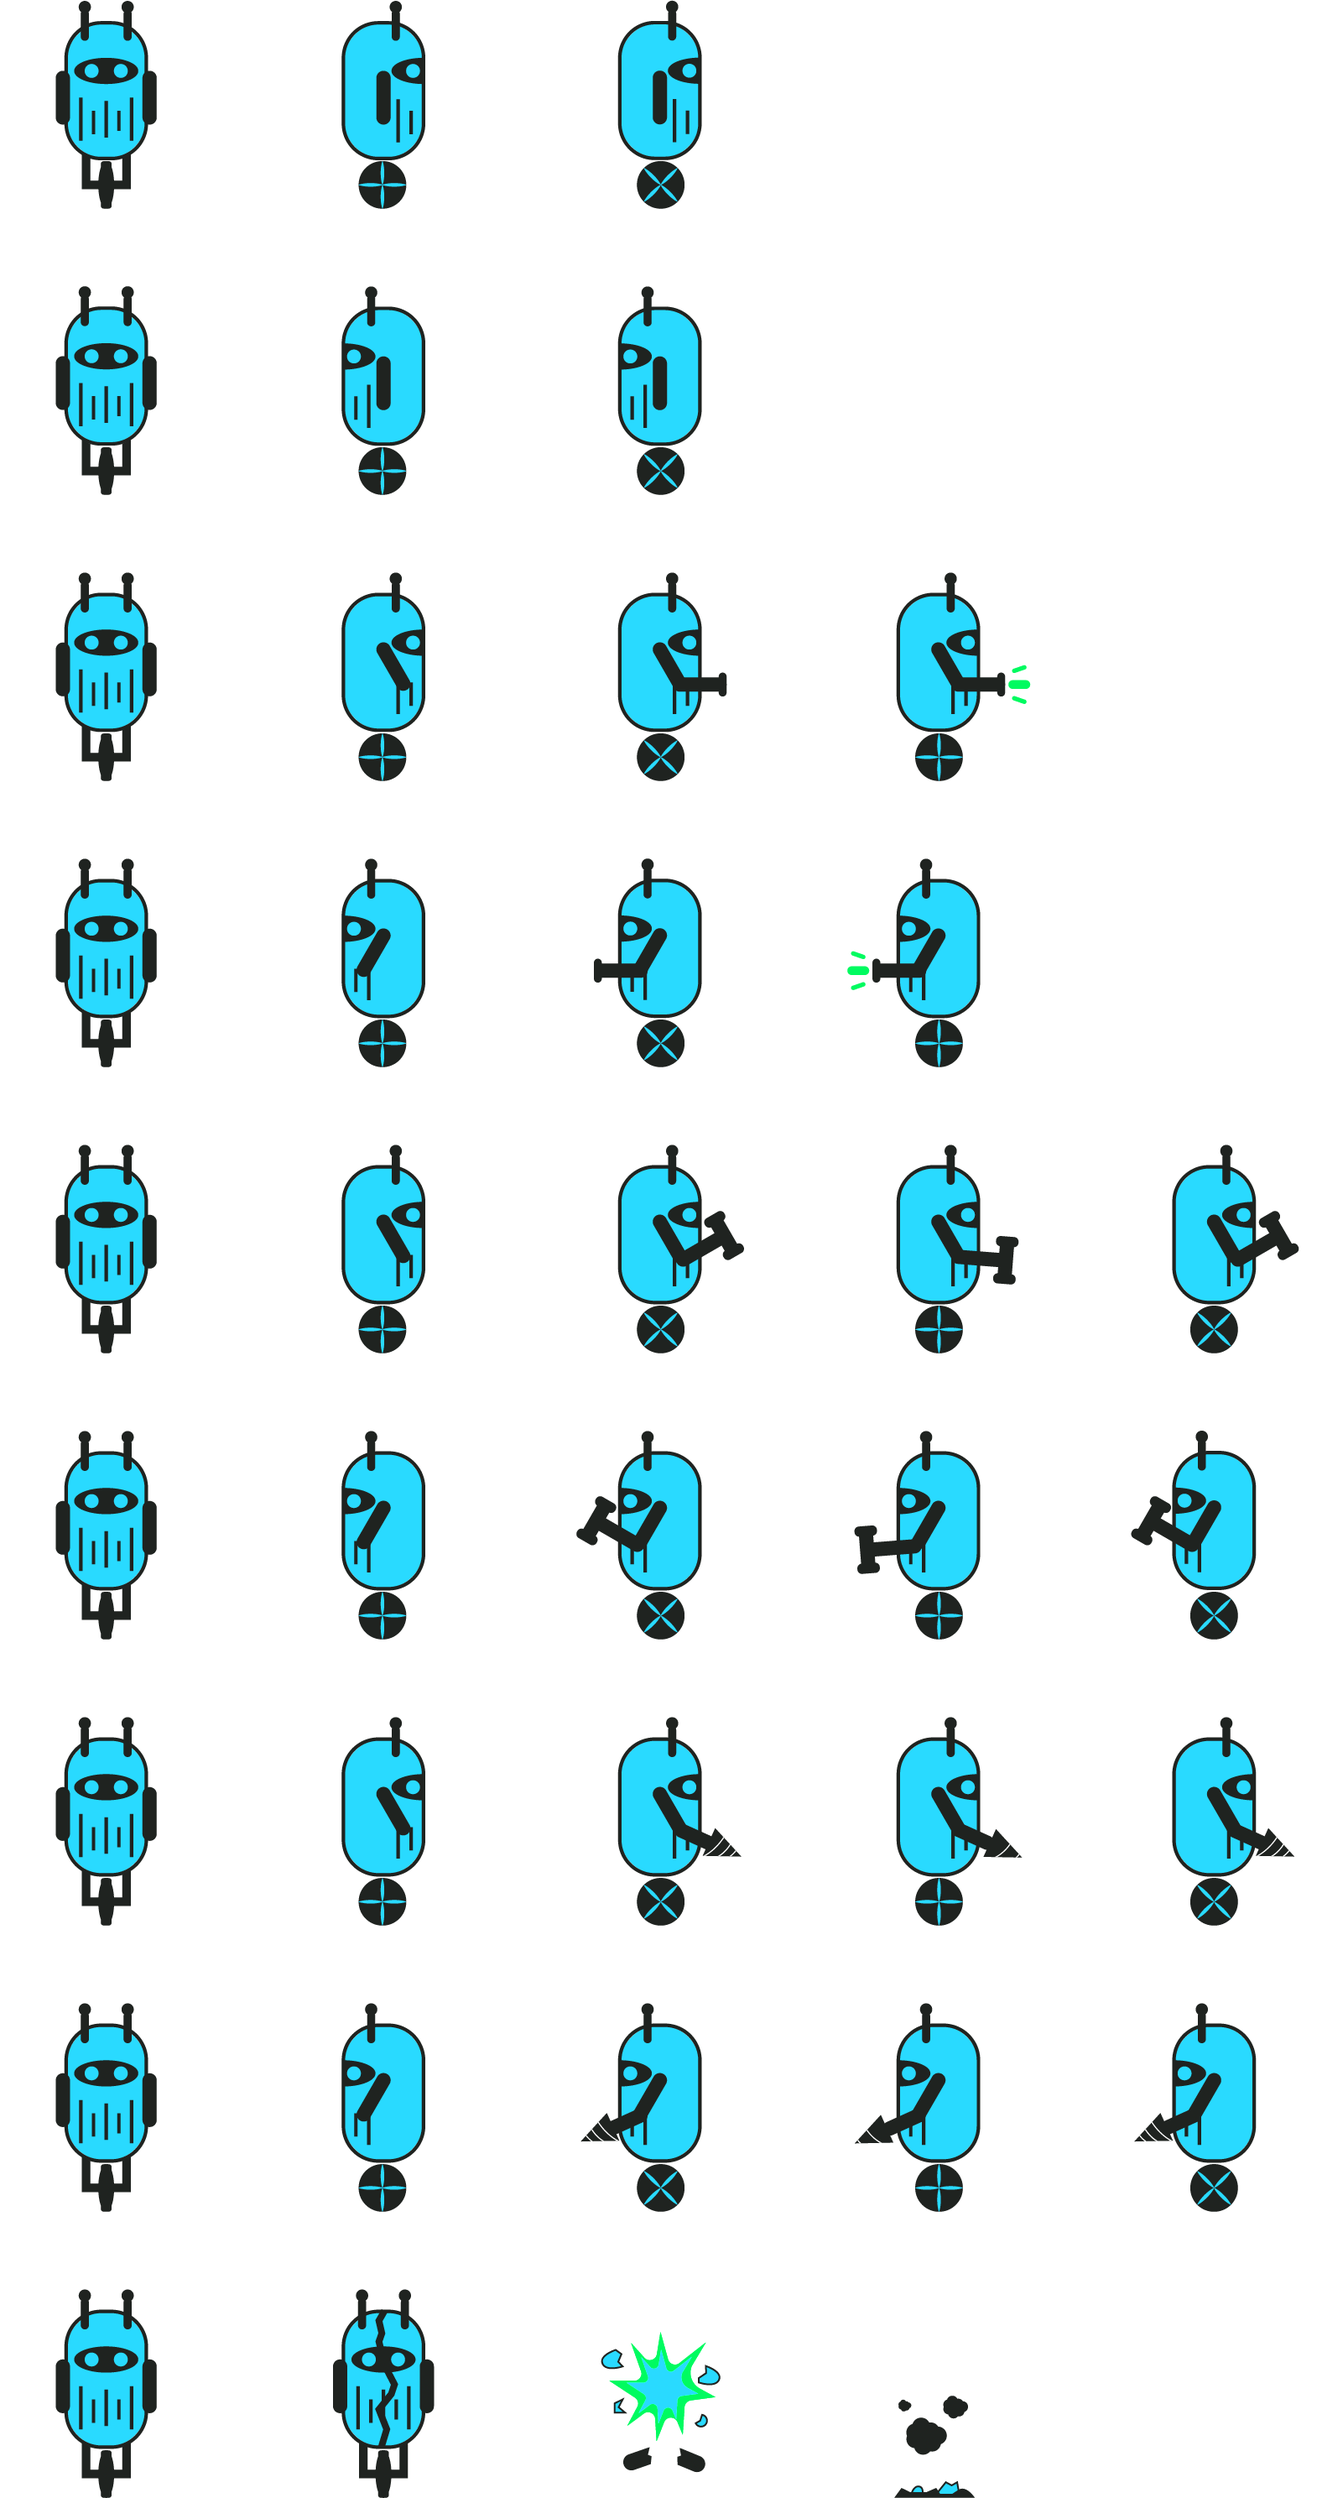
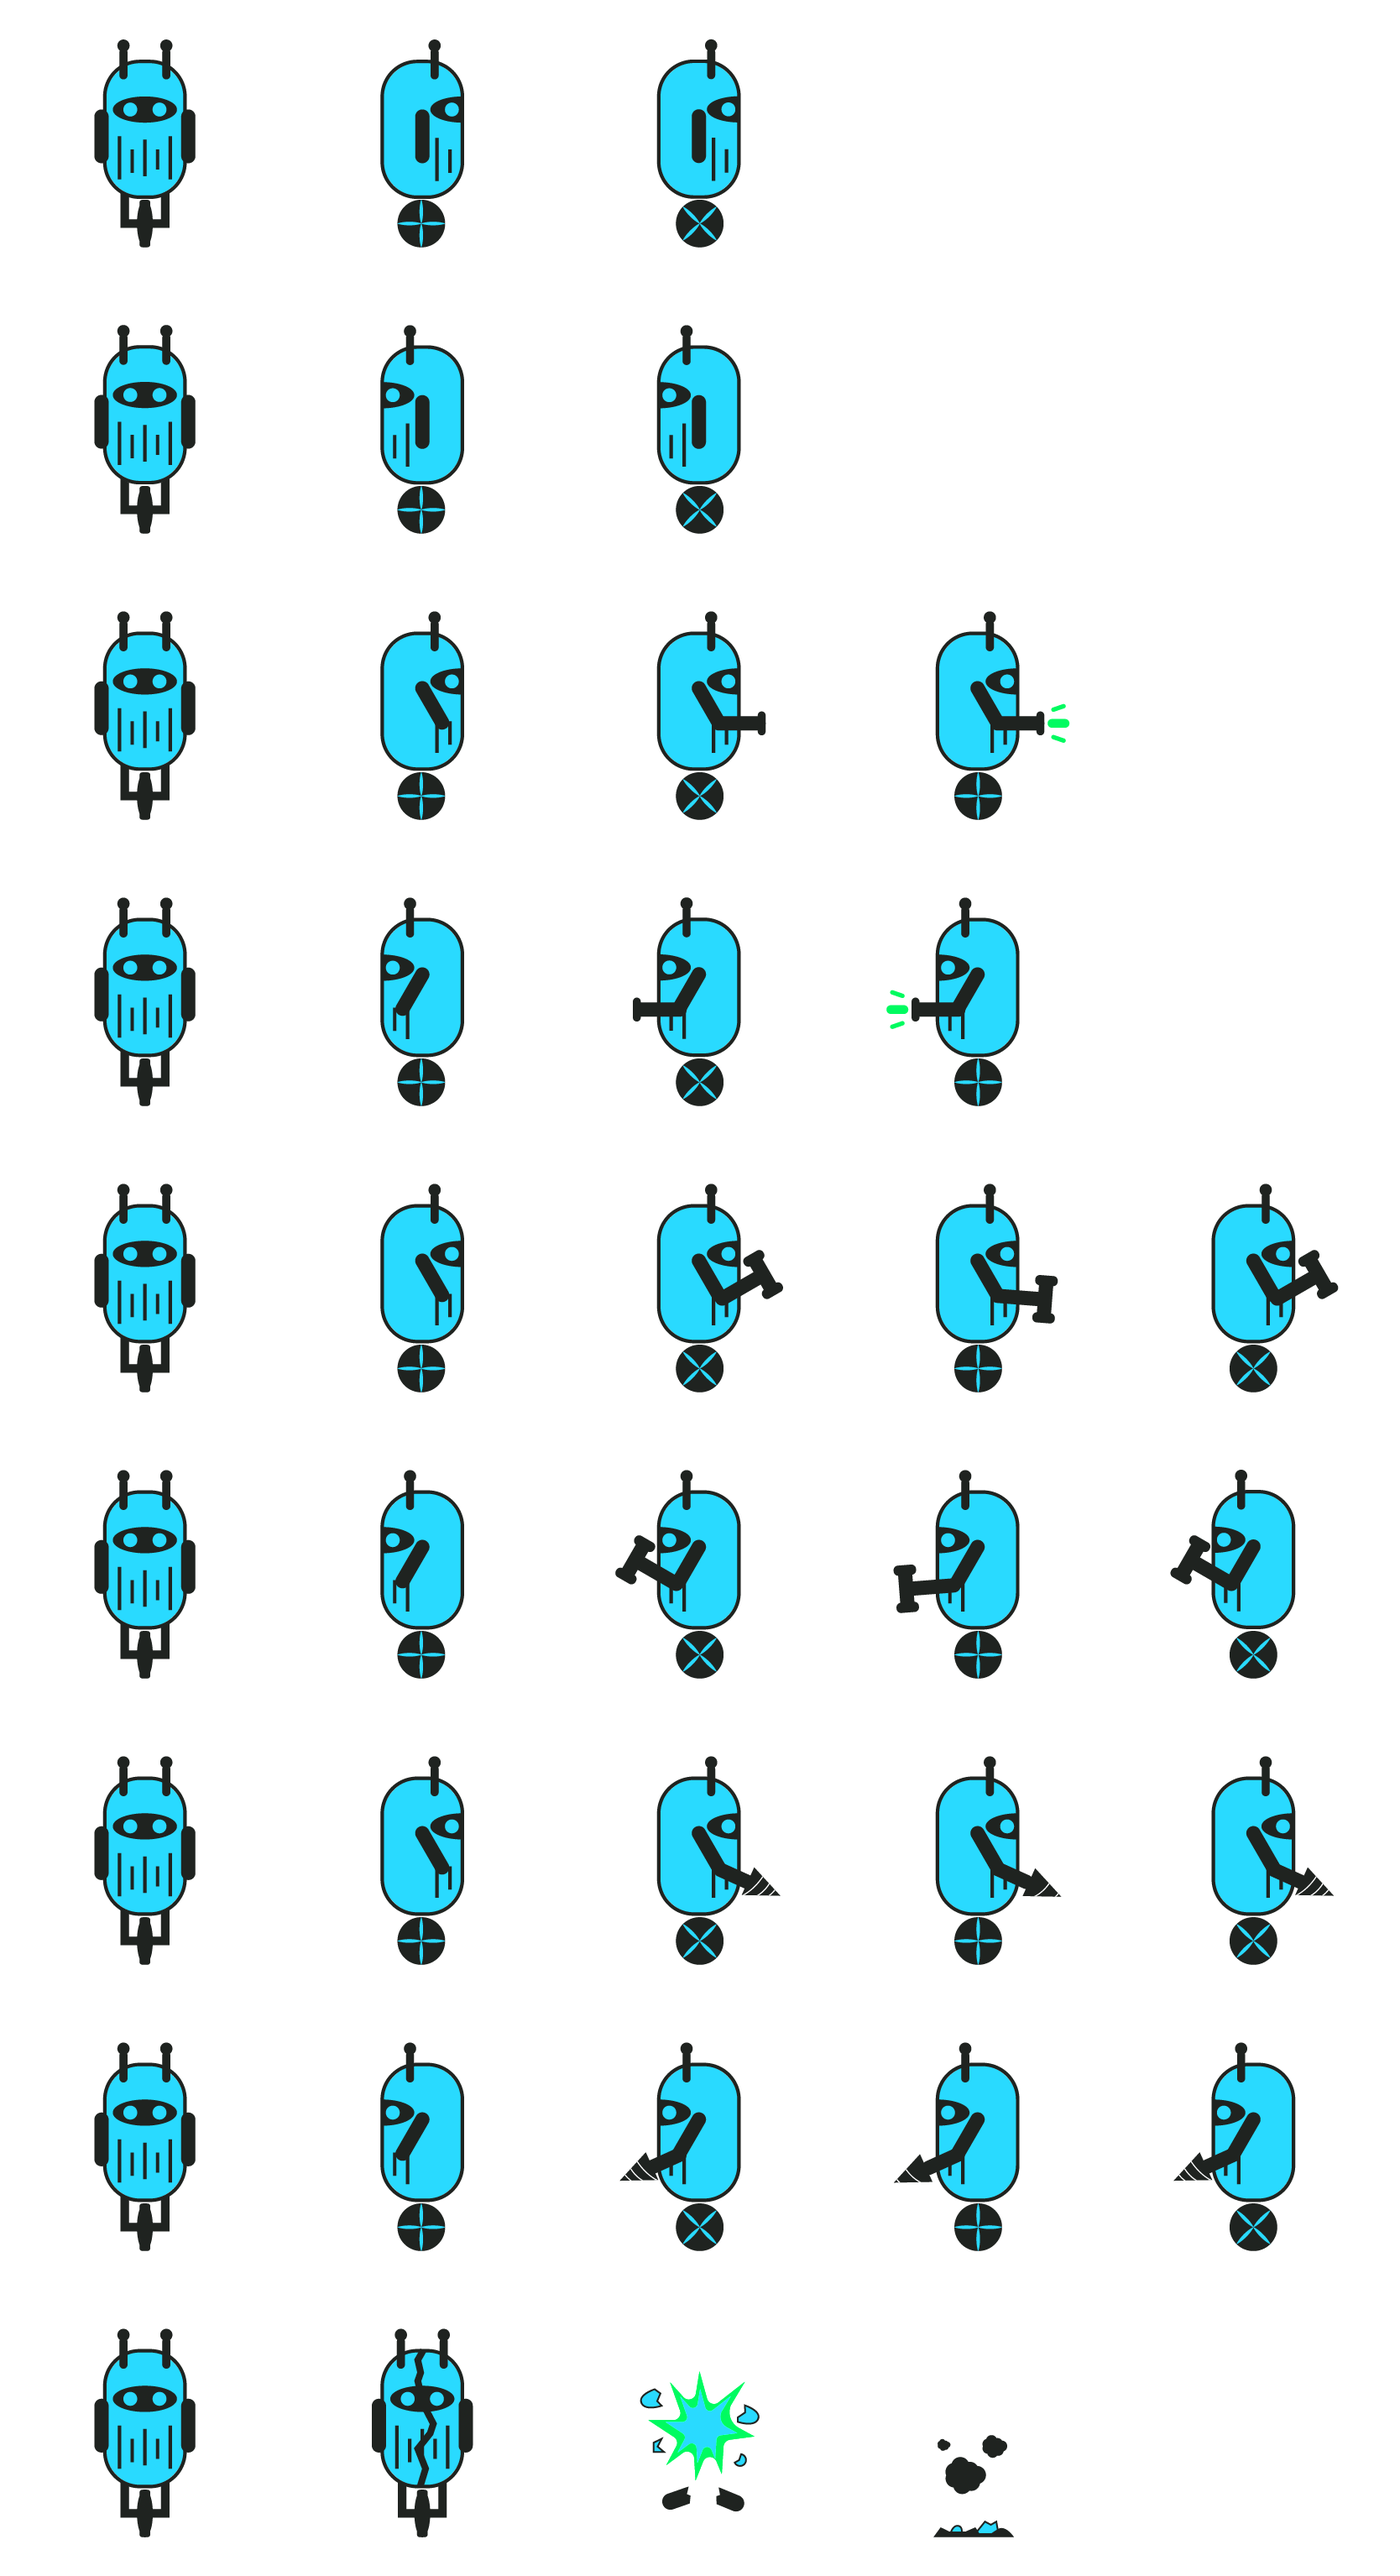
spriteconsts for mine/bld

diff --git a/src/javascripts/constants/spriteconstants.js b/src/javascripts/constants/spriteconstants.js
@@ -7,8 +7,8 @@ const SPRITE_CONSTANTS = {
     soldierSprites: {
         // On screen data
         displayDimensions: {
-            width: 18,
-            height: 18
+            width: 10,
+            height: 10
         },
         animationSpeed: {
             values: [0.07, 0.17, 0.25, 0.37, 0.45, 0.6, 0.8],
@@ -71,40 +71,58 @@ const SPRITE_CONSTANTS = {
         // Spritesheet data
         spriteSheetData: {
             frameDetails: {
-                width: 315,
-                height: 330,
-                jump: 315                       // jump and width are usually the same
+                width: 334,
+                height: 341,
+                jump: 334                       // jump and width are usually the same
             },
             idleSequence: {
                 initPositions: {
-                    left: { x: 315, y: 330 },
+                    left: { x: 334, y: 341 },
                     up: { x: 0, y: 0 },
                     down: { x: 0, y: 0 },
-                    right: { x: 315, y: 0 },
+                    right: { x: 334, y: 0 },
                 }
             },
             moveSequence: {
                 initPositions: {
-                    left: { x: 315, y: 330 },
-                    right: { x: 315, y: 0 },
-                    down: { x: 315, y: 330 },
-                    up: { x: 315, y: 0 },
+                    left: { x: 334, y: 341 },
+                    right: { x: 334, y: 0 },
+                    down: { x: 334, y: 341 },
+                    up: { x: 334, y: 0 },
                 },
                 frameSequence: [0, 1]     // sequence of frame indices to be added to textures array
             },
             atkSequence: {
                 initPositions: {
-                    left: { x: 315, y: 992 },
-                    right: { x: 315, y: 661 },
-                    down: { x: 315, y: 992 },
-                    up: { x: 315, y: 661 },
+                    left: { x: 334, y: 1023 },
+                    right: { x: 334, y: 682 },
+                    down: { x: 334, y: 1023 },
+                    up: { x: 334, y: 682 },
                 },
                 frameSequence: [0, 1, 2]
+            },
+            mineSequence: {
+                initPositions: {
+                    left: { x: 334, y: 2387 },
+                    right: { x: 334, y: 2046 },
+                    down: { x: 334, y: 2387 },
+                    up: { x: 334, y: 2046 },
+                },
+                frameSequence: [0, 1, 2, 3]
+            },
+            bldSequence: {
+                initPositions: {
+                    left: { x: 334, y: 1705 },
+                    right: { x: 334, y: 1364 },
+                    down: { x: 334, y: 1705 },
+                    up: { x: 334, y: 1364 },
+                },
+                frameSequence: [0, 1, 2, 3]
             },
             deadSequence: {
                 initPositions: {
                     x: 0,
-                    y: 2646
+                    y: 2728
                 },
                 frameSequence: [0, 1, 2, 3, 3, 3, 3, 3, 3, 3, 3, 3, 3]    // last death frame is repeated until respawn
             },
